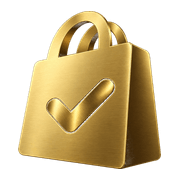
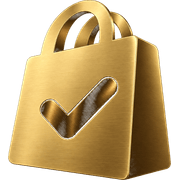
Mobile checkout reordered; white mark back on the nav, gold bag filling the browser tab
Phone order is now wallets, scratch card, a folded summary carrying the
discount box, the details, then the card — the page ends on the pay button
with nothing underneath it to scroll past. The right-hand column is hidden
entirely on a phone rather than dumped below the form.

Nav icon is the white mark again at its old size; the gold bag is the tab
icon and fills the square edge to edge instead of sitting in a margin, which
is the only way a favicon can be made to look bigger.

Claude-Session: https://claude.ai/code/session_0181L2kuKeioRLEVYRzeLmhY

diff --git a/app/routes/checkout.tsx b/app/routes/checkout.tsx
@@ -3044,30 +3044,48 @@ function OnePage({
     );
   }
 
-  /* The rail: everything about the order, in the order he asked for — what
-     is being bought, the discount, the protection, the totals, the scratch
-     card, then the suggestions. On a phone this is the folded summary at the
-     top of the page instead, so the first thing on screen is still the
-     wallet button. */
+  const scratch = (
+    <ScratchCard
+      odds={scratchOdds}
+      applied={cart.discount?.code ?? null}
+      locked={false}
+      logoUrl={store.logoUrl}
+    />
+  );
+
   /**
-   * The rail is rendered exactly once. It used to be rendered twice — inside
-   * the phone's folded summary and again in the right-hand column — which
-   * meant two scratch cards, two canvases and two fetchers racing each other
-   * for the same card. That is why it sat on "Preparing your card…".
+   * The right-hand column, on a screen wide enough to have one: what is being
+   * bought, the discount, the totals, the card, then the suggestions.
    */
   const rail = (
     <>
       {summary}
-      <ScratchCard odds={scratchOdds} applied={cart.discount?.code ?? null} locked={false} logoUrl={store.logoUrl} />
+      {scratch}
       {under}
     </>
   );
 
+  /**
+   * A phone is a different order of business, and he is right that the old one
+   * was not a converting one: wallets, then a wall of fields, with the cart,
+   * the discount and the card marooned somewhere below the fold.
+   *
+   * So on a phone the page reads: the wallets, then the scratch card while
+   * the mood is good, then a small folded summary carrying the discount box,
+   * then the details, then the card — and it ends on the green button. There
+   * is nothing underneath it to scroll to, which is the point.
+   *
+   * Both copies of the card exist in the markup and CSS shows one; the card
+   * asks the server for nothing until it is touched, so the copy nobody can
+   * see costs nothing and draws nothing.
+   */
   return (
     <div className="gb-co-split">
       <div className="gb-co__pane">
         <div className="gb-co__pane-in">
           {chrome?.header}
+          {express}
+          <div className="gb-co__mobile-only">{scratch}</div>
           <details className="gb-co__msum">
             <summary>
               <svg className="gb-co__msum-caret" viewBox="0 0 24 24" fill="none" stroke="currentColor" strokeWidth="2.4" strokeLinecap="round" strokeLinejoin="round" aria-hidden="true"><path d="M6 9.5l6 6 6-6" /></svg>
@@ -3076,7 +3094,6 @@ function OnePage({
             </summary>
             <div className="gb-co__msum-body">{summary}</div>
           </details>
-          {express}
           {form}
         </div>
         {chrome?.footer}

diff --git a/app/storefronts/garden-buddy/checkout.css b/app/storefronts/garden-buddy/checkout.css
@@ -74,7 +74,15 @@
   /* on a phone the rail is the folded summary instead */
   .gb-co__rail { display: block; }
 }
-@media (max-width: 959px) { .gb-co__rail { background: var(--rail); border-top: 1px solid var(--line); } }
+/* On a phone the right-hand column is gone entirely: everything it held is
+   either in the folded summary or, in the scratch card's case, high up the
+   page where it belongs. A page that ends on the pay button has nothing left
+   to scroll past. */
+@media (max-width: 959px) {
+  .gb-co__rail { display: none; }
+}
+.gb-co__mobile-only { display: block; }
+@media (min-width: 960px) { .gb-co__mobile-only { display: none; } }
 
 /* ---- the head of the white half --------------------------------------- */
 .gb-co__bar-in { display: grid; justify-items: center; gap: 8px; padding-bottom: 18px; }
@@ -249,6 +257,7 @@
    The odds are one tap below, because a prize promotion that hides them is
    the kind that loses you a payment account. */
 .gb-co__scratch { margin: 22px auto 0; max-width: 340px; }
+.gb-co__mobile-only .gb-co__scratch { margin: 0 auto 18px; max-width: none; }
 .gb-co__scratch-h { margin: 0; font-family: var(--font-h); font-size: 15px; font-weight: 800; letter-spacing: -.01em; color: var(--ink); text-align: center; }
 .gb-co__scratch-sub { margin: 3px 0 11px; font-size: 12px; color: var(--dim); text-align: center; }
 .gb-co__scratch-box { position: relative; border-radius: 14px; overflow: hidden; background: #FFFDF7; aspect-ratio: 1.9 / 1; max-height: 140px; box-shadow: 0 8px 24px rgba(43, 30, 17, .18); }

diff --git a/app/admin/shell.tsx b/app/admin/shell.tsx
@@ -296,7 +296,7 @@ export function AdminShell({
     >
       <header
         style={{
-          height: 78,
+          height: 45,
           flex: "none",
           display: "flex",
           alignItems: "center",
@@ -310,9 +310,9 @@ export function AdminShell({
       >
         <span style={{ display: "flex", alignItems: "center", gap: 9, flex: "none", marginRight: 4 }}>
           <img
-            src="/logo-gold-mark.png"
+            src="/logo-mark.png"
             alt="Shop Admin"
-            style={{ width: 72, height: 72, objectFit: "contain", flex: "none", display: "block" }}
+            style={{ width: 36, height: 36, objectFit: "contain", flex: "none", display: "block" }}
           />
           {!isMobile ? (
             <span
